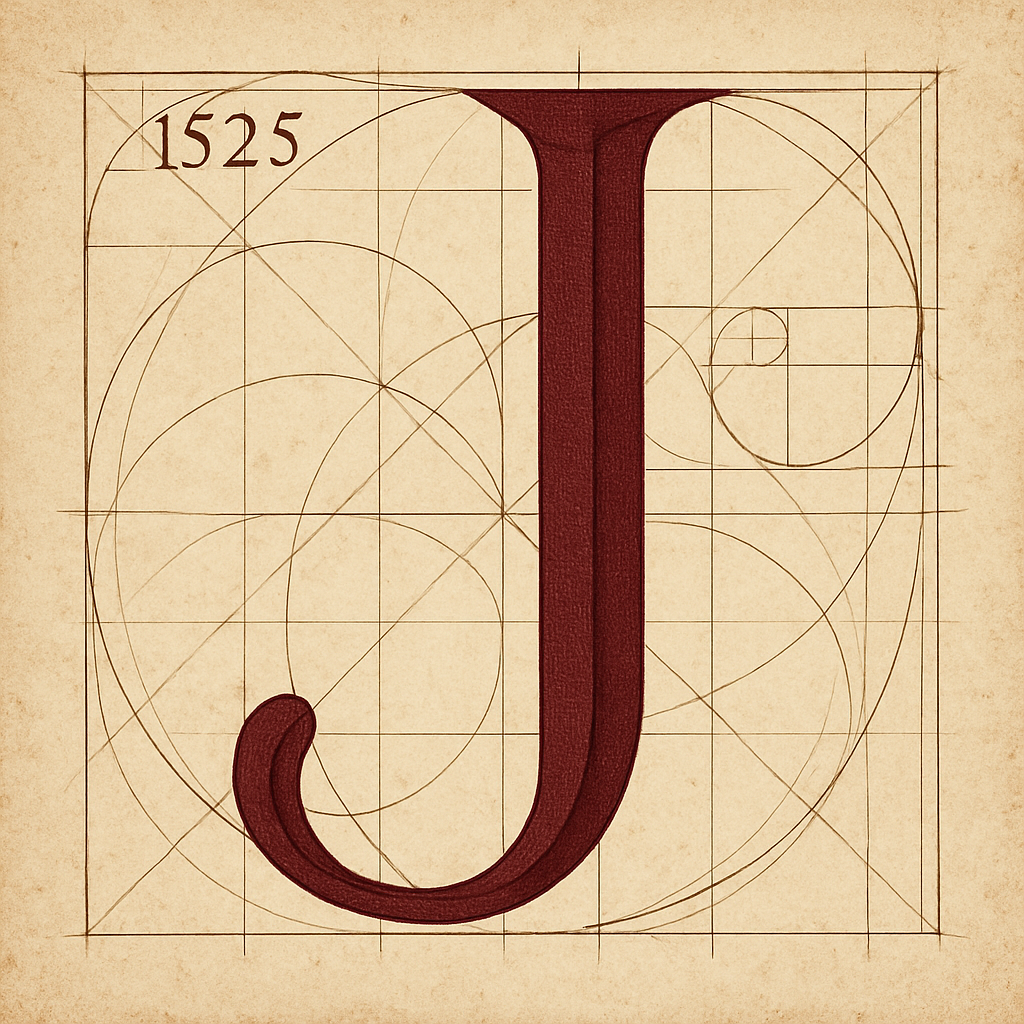
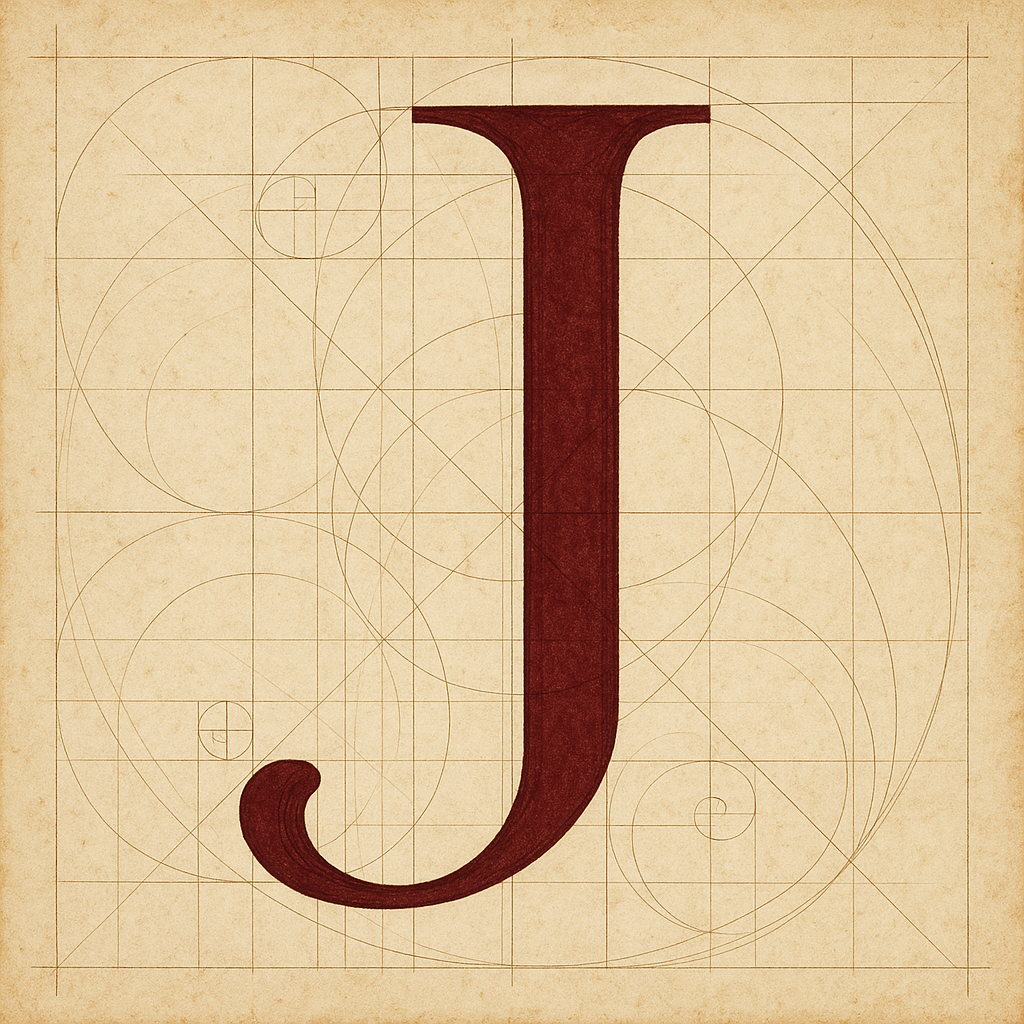
Rename how-we-teach.html to teaching.html

diff --git a/regenerate_J.py b/regenerate_J.py
@@ -1,0 +1,38 @@
+import os
+import base64
+from openai import OpenAI
+
+client = OpenAI()
+
+folder = "s2_circinus_illuminates"
+os.makedirs(folder, exist_ok=True)
+
+prompt = """
+Capital letter J in the geometric Renaissance typeface construction style of Albrecht Dürer (1525).
+
+Cream aged parchment background.
+Deep burgundy letter (#5C1F1B).
+Visible geometric construction grid with compass circles and Fibonacci spirals faintly in the background.
+Consistent stroke thickness.
+Elegant small Renaissance serifs.
+Hand-drawn compass-and-straightedge aesthetic.
+Renaissance manuscript illumination style.
+Square composition.
+Do not render the year 1525 or any other numbers, digits, or text anywhere in the image.
+"""
+
+result = client.images.generate(
+    model="gpt-image-1",
+    size="1024x1024",
+    prompt=prompt
+)
+
+image_base64 = result.data[0].b64_json
+image_bytes = base64.b64decode(image_base64)
+
+filename = f"{folder}/J_s2_circinus_illuminates.png"
+
+with open(filename, "wb") as f:
+    f.write(image_bytes)
+
+print(f"Saved {filename}")

diff --git a/README.md b/README.md
@@ -1,0 +1,28 @@
+# How We Teach - Demo Page
+
+This is a self-contained demo of the "How We Teach" page for the System Two website.
+
+## What's included:
+
+- `how-we-teach.html` - The complete page with three hero essays (Feynman, Halsted, Alcuin)
+- `assets/styles.css` - All styles
+- `assets/system2-logomark.png` - Logomark for header
+- `assets/android-chrome-512x512.png` - Favicon
+
+## To view:
+
+Simply open `how-we-teach.html` in a browser.
+
+## Notes:
+
+- Illuminated capitals are currently placeholder `<div>` elements (styled letters)
+- Replace these with actual image files when ready
+- Navigation links point to other pages that don't exist in this demo (they're in the full site)
+- The page uses Palatino Linotype font with proper fallbacks
+
+## Brand colors:
+
+- Burgundy: `#6b2735`
+- Parchment: `#f5f1e8`
+- Forest Green: `#2f5233`
+- Black: `#1a1a1a`
